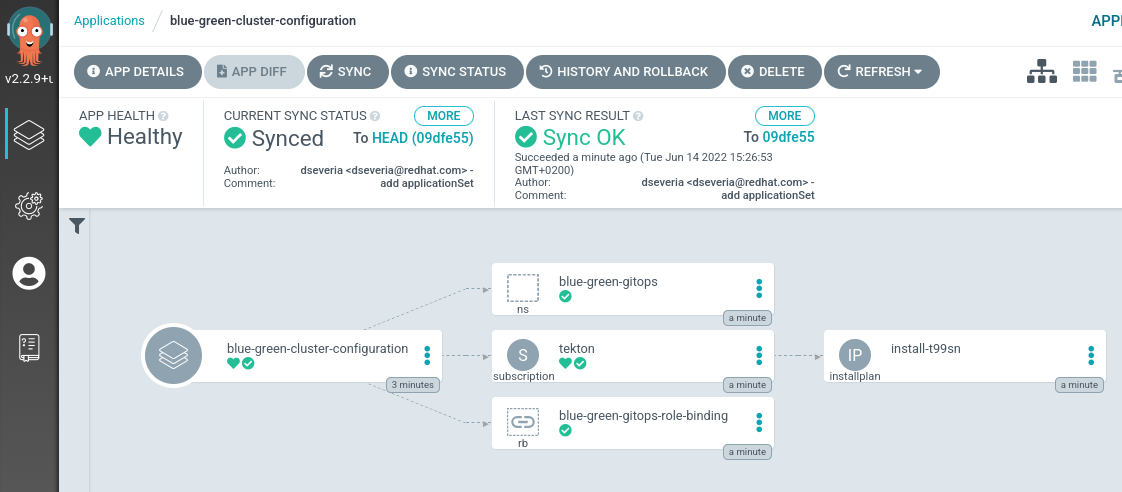
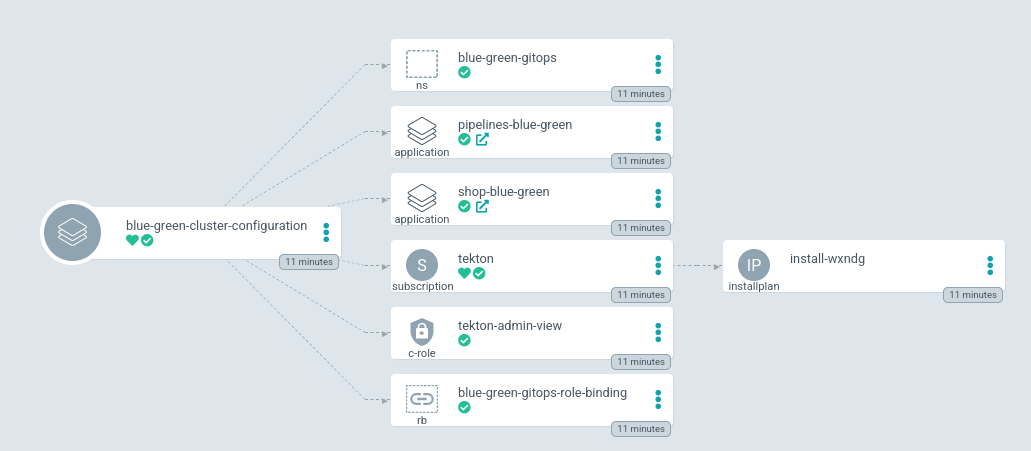
improve readme

diff --git a/README.md b/README.md
@@ -29,7 +29,16 @@ Click on Argo CD from the OpenShift Web Console application launcher and then lo
 
 ### Configure OpenShift with Argo CD
 
-In the current Git repository, the [gitops/cluster-config](gitops/cluster-config/) directory contains OpenShift cluster configurations such as namespaces that should be created. Let's configure Argo CD to recursively sync the content of the [gitops/cluster-config](gitops/cluster-config/) directory to the OpenShift cluster. Initially, we can set the sync policy to manual in order to be able to review changes before rolling out configurations to the cluster. 
+In the current Git repository, the [gitops/cluster-config](gitops/cluster-config/) directory contains OpenShift cluster configurations such as:
+- namespaces `blue-green-gitops`.
+- operator `Openshift Pipelines`.
+- cluster role `tekton-admin-view`.
+- role binding for ArgoCD to the namespace `blue-green-gitops`.
+- `pipelines-blue-green` the pipelines that we will see later for blue/green deployment.
+- `shop-blue-green` the application that we are going to use to test blue/green deployment
+
+
+ Let's configure Argo CD to recursively sync the content of the [gitops/cluster-config](gitops/cluster-config/) directory to the OpenShift cluster.
 
 Execute this command to add a new Argo CD application that syncs a Git repository containing cluster configurations with the OpenShift cluster.
 
@@ -37,25 +46,31 @@ Execute this command to add a new Argo CD application that syncs a Git repositor
 oc apply -f gitops/application-cluster-config.yaml -n openshift-gitops
 ```
 
-Looking at the Argo CD dashboard, you would notice that the **blue-green-cluster-configuration** Argo CD application is created. Once the sync is completed successfully, you would see that Argo CD reports a the configurations to be currently in sync with the Git repository and healthy. You can click on the **blue-green-cluster-configuration** application to check the details of sync resources and their status on the cluster. 
+Looking at the Argo CD dashboard, you would notice that three applications has been created. 
+
+![Argo CD - Applications](gitops/images/applications.png)
+
+You can click on the **blue-green-cluster-configuration** application to check the details of sync resources and their status on the cluster. 
 
 ![Argo CD - Cluster Config](gitops/images/application-cluster-config-sync.png)
 
 
 You can check that a namespace called `blue-green-gitops` is created on the cluster.
 
-You can also check that the **Openshift Pipelines operator** is installed.
+You can check that the **Openshift Pipelines operator** is installed.
+
+And also the other to applications has been created **pipelines-blue-green** **shop-blue-green**
 
 
+TODO probar que shop funciona.
 
+TODO lanzar los pipelines
 
 TODO ver si faltan mas permisos, casi seguro que el toke de git
 
 
 
-oc apply -f gitops/application-shop-blue-green.yaml -n openshift-gitops
 
-oc apply -f gitops/application-pipeline-blue-green.yaml -n openshift-gitops
 
 
 
